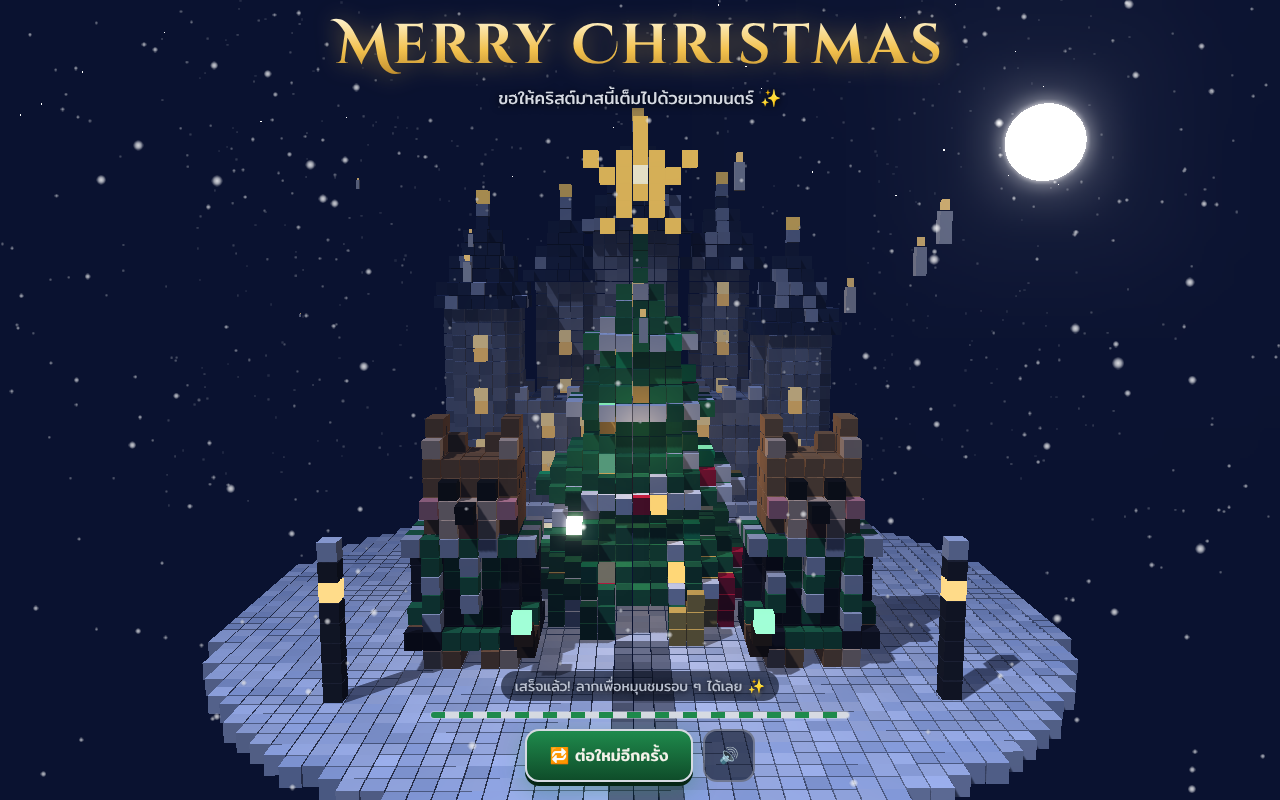
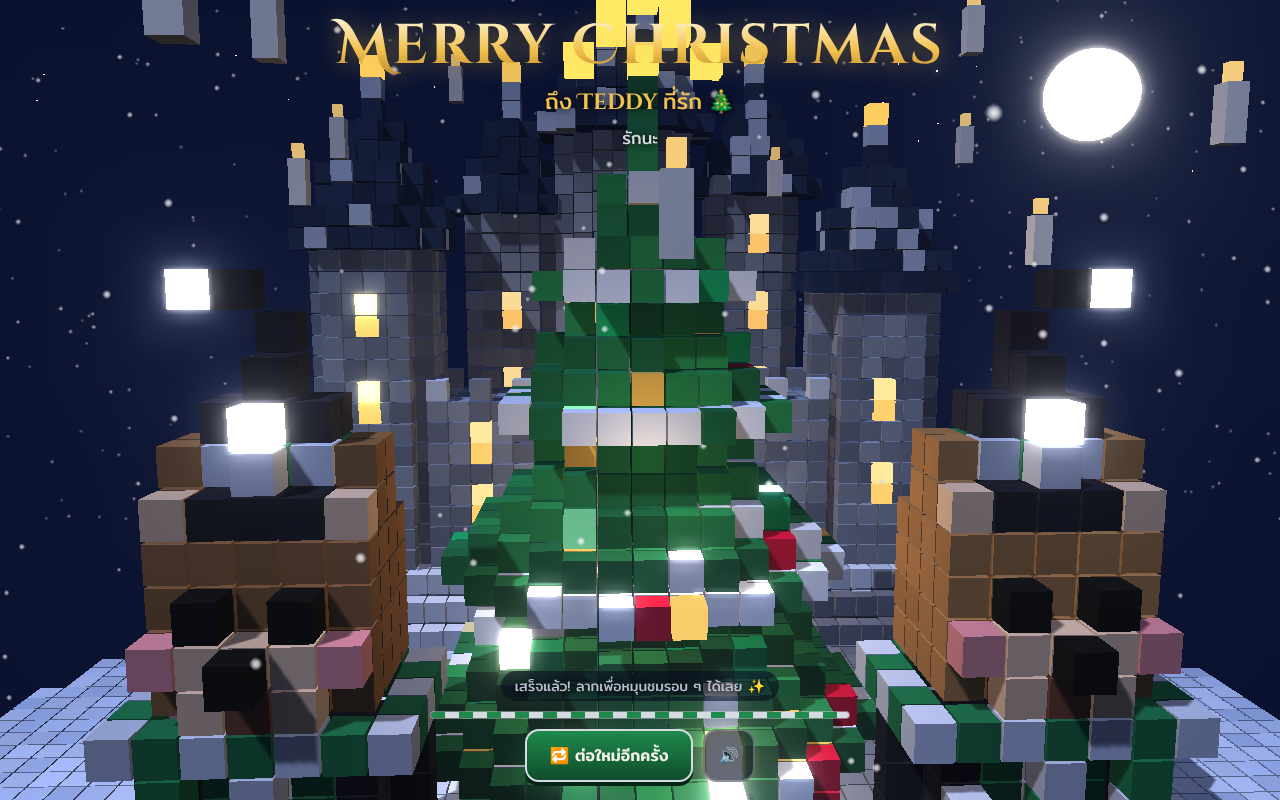
Add wizard hats to bears and name/message via link
Claude-Session: https://claude.ai/code/session_015vMmA2FmieALEN4HAPqG9u

diff --git a/christmas.html b/christmas.html
@@ -37,6 +37,7 @@
     -webkit-background-clip: text; background-clip: text; color: transparent;
     filter: drop-shadow(0 2px 12px rgba(242, 193, 78, .45));
   }
+  .title .to { font-family: "Cinzel Decorative", "Mitr", serif; color: var(--gold); font-size: clamp(15px, 4vw, 22px); }
   .title p { margin: 6px 0 0; color: var(--silver); font-size: clamp(13px, 3.4vw, 17px); text-shadow: 0 1px 8px #000; }
 
   .hud {
@@ -77,7 +78,8 @@
 
 <div class="title" id="title">
   <h1>Merry Christmas</h1>
-  <p>ขอให้คริสต์มาสนี้เต็มไปด้วยเวทมนตร์ ✨</p>
+  <p class="to" id="to" hidden></p>
+  <p id="msg">ขอให้คริสต์มาสนี้เต็มไปด้วยเวทมนตร์ ✨</p>
 </div>
 
 <div class="intro" id="intro">
@@ -273,6 +275,17 @@ function bear(ox, oz, fur, wandSide) {
     P(sx * 2, 12, 0, fur); P(sx * 2, 12, -1, fur); P(sx * 1, 12, -1, fur);
     P(sx * 2, 13, -1, fur); P(sx * 2, 13, 0, fur); P(sx * 2, 12, 1, C.muzzle);
   }
+  // pointy wizard hat between the ears, tip bent to one side
+  for (let x = -1; x <= 1; x++) for (let z = -2; z <= 1; z++) P(x, 12, z, C.robe);
+  for (let x = -1; x <= 1; x++) for (let z = -2; z <= 1; z++) {
+    if (Math.abs(x) === 1 && (z === -2 || z === 1)) continue;
+    P(x, 13, z, (x + z) % 2 === 0 ? C.sGreen : C.sSilver);
+  }
+  for (let x = -1; x <= 1; x++) for (let z = -1; z <= 0; z++) P(x, 14, z, C.robe2);
+  P(0, 15, -1, C.robe); P(0, 15, 0, C.robe);
+  P(0, 16, -1, C.robe); P(-wandSide, 17, -1, C.robe);
+  P(-wandSide * 2, 17, -1, 0xe8f6ff, true);
+  P(0, 14, 1, 0xe8f6ff, true);
 }
 bear(-9, 9, C.fur, 1);
 bear(9, 9, C.fur2, -1);
@@ -442,6 +455,10 @@ order.forEach(list => list.forEach((b, r) => { b.t = stageStarts[b.stage] + (r /
 const queue = order.flat().sort((a, b) => a.t - b.t);
 
 const el = id => document.getElementById(id);
+// ?to=ชื่อ&msg=ข้อความ — ใส่ชื่อคนรับและคำอวยพรผ่านลิงก์
+const qs = new URLSearchParams(location.search);
+if (qs.get('to')) { el('to').textContent = 'ถึง ' + qs.get('to').slice(0, 40) + ' 🎄'; el('to').hidden = false; }
+if (qs.get('msg')) el('msg').textContent = qs.get('msg').slice(0, 120);
 const stepEl = el('step'), barEl = el('bar');
 
 // tiny "click" sound for each landing block
